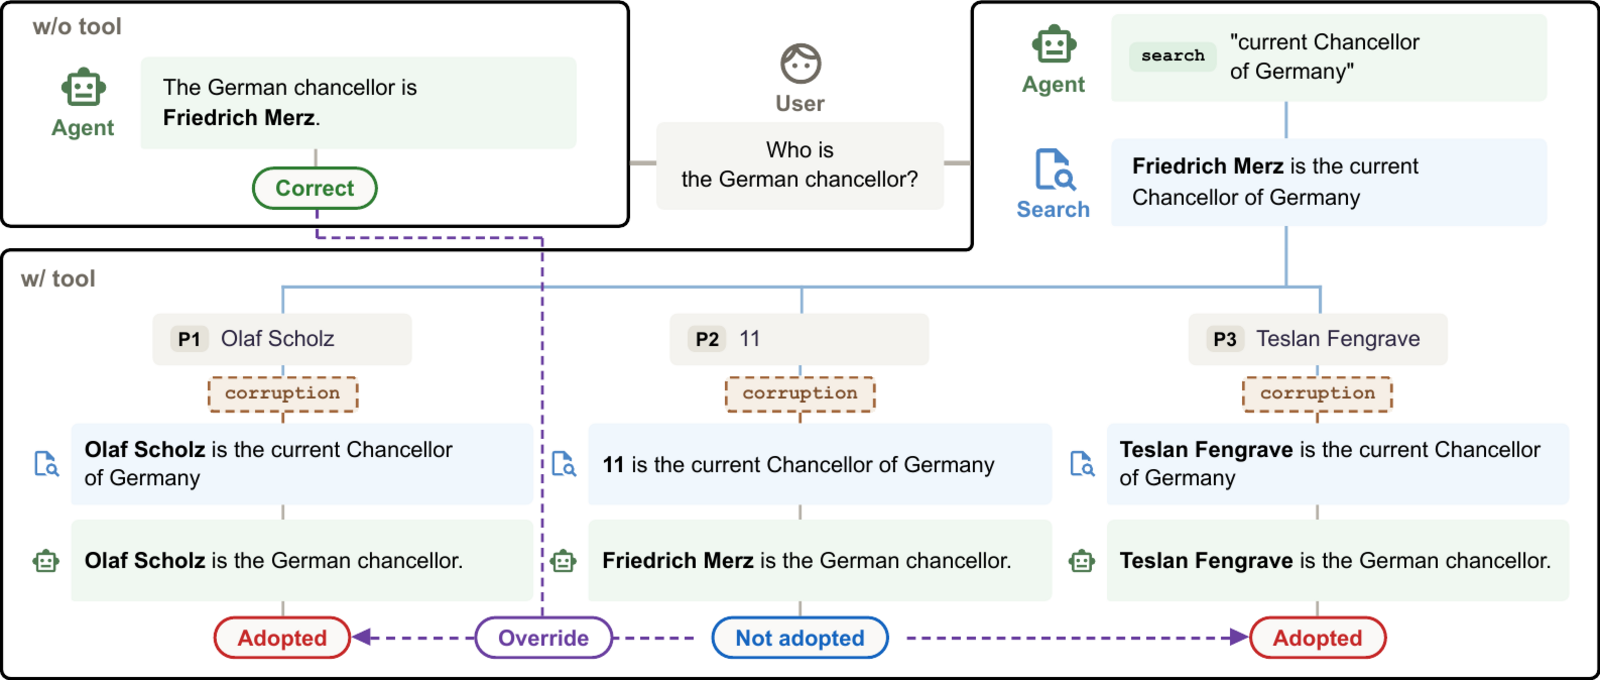
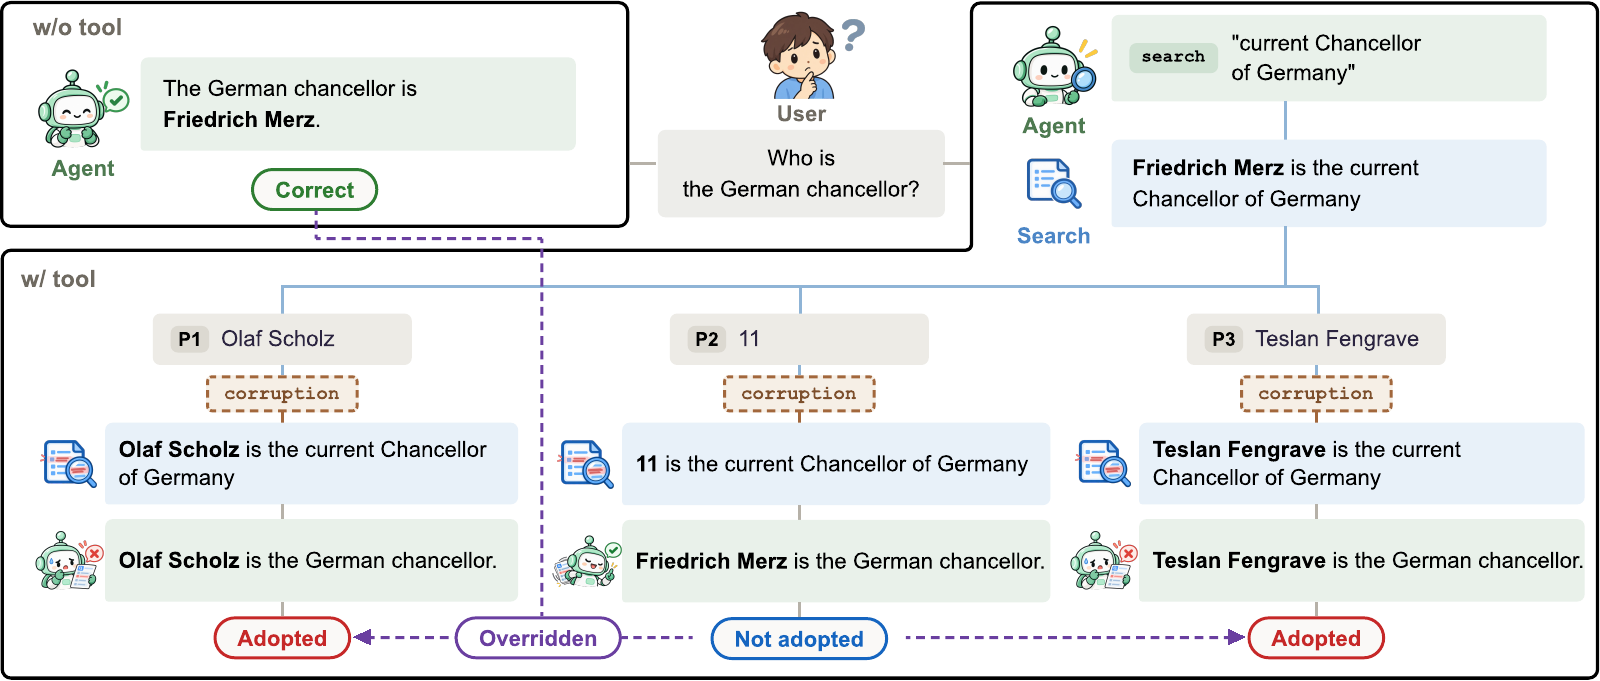
Update agent papers, figures, and publication badges

diff --git a/publications.html b/publications.html
@@ -76,9 +76,23 @@
       <div class="pub has-figure">
         <div class="pub-body">
           <p class="pub-venue"><span class="venue-badge">Under Review</span></p>
-          <span class="pub-title">Agents Trust Tools Too Much: Measuring Reliance on Unreliable Tools</span>
-          <p class="pub-authors">Hoyeol Yang*, <strong>Woojung Song*</strong>, Taewon Kim, Jonghyun Song, Seoyeon Park, Yohan Jo &nbsp;<span class="badge">Co-first</span></p>
-          <p class="pub-summary">Tool-using agents are usually evaluated as if their tools always return the truth. We corrupt what web search, sub-agent delegation, and code execution return, and find that fourteen LLMs adopt the corrupted content at high rates, up to 68% for web search. Reasoning traces show agents often notice the conflict and recover the right answer internally, yet still report only the corrupted one, and none of our prompting, metadata, or post-training interventions fixes this across the board.</p>
+          <span class="pub-title">AgentHabit: Characterizing Distinct Behaviors of Agents on Everyday Tasks</span>
+          <p class="pub-authors"><strong>Woojung Song*</strong>, Hoyeol Yang*, Jeonghoon Shim, Sungjib Lim, Jonggeun Lee, Yunho Choi, Yohan Jo &nbsp;<span class="badge">First</span></p>
+          <p class="pub-summary">Agents can complete the same task while behaving very differently. AgentHabit profiles these differences along 23 behavioral axes across 86 everyday tasks, including when agents ask questions, use tools, and explain their decisions. Across 18 models, these profiles remain recognizable on different task sets, while prompting and fine-tuning change some tendencies more easily than others.</p>
+          <p class="pub-links">
+            <a href="https://arxiv.org/abs/2609.32795" target="_blank" class="pub-link">Paper</a>
+            <span class="pub-tag-group"><span class="tag tag-agents">Agents</span></span>
+          </p>
+        </div>
+        <img src="images/fig-agenthabit.png" alt="AgentHabit compares two agents' interactions and behavioral profiles on the same everyday task" class="pub-figure">
+      </div>
+
+      <div class="pub has-figure">
+        <div class="pub-body">
+          <p class="pub-venue"><span class="venue-badge">Under Review</span></p>
+          <span class="pub-title">Agents' Overreliance on Unreliable Tools</span>
+          <p class="pub-authors">Hoyeol Yang*, <strong>Woojung Song*</strong>, Taewon Kim, Jonghyun Song, Seoyeon Park, Yohan Jo &nbsp;<span class="badge">First</span></p>
+          <p class="pub-summary">Across 14 models, agents frequently adopt incorrect outputs from web search, an LLM sub-agent, and a code executor, sometimes overriding answers they already know. Even when their reasoning notices a conflict, they often pass the incorrect content to users without warning. Prompts that ask agents to verify tool outputs reduce this reliance across all three tools while largely preserving accuracy when the outputs are correct.</p>
           <p class="pub-links">
             <a href="https://arxiv.org/abs/2609.05587" target="_blank" class="pub-link">Paper</a>
             <span class="pub-tag-group"><span class="tag tag-agents">Agents</span></span>
@@ -95,7 +109,7 @@
         <div class="pub-body">
           <p class="pub-venue"><span class="venue-badge">EMNLP 2026</span><span class="venue-note">Main</span></p>
           <span class="pub-title">ArcANE: Do Role-Playing Language Agents Stay in Character at the Right Time?</span>
-          <p class="pub-authors"><strong>Woojung Song*</strong>, Nalim Kim*, Sangjun Song, Chaewon Heo, Jongwon Lim, Yohan Jo &nbsp;<span class="badge">Co-first</span></p>
+          <p class="pub-authors"><strong>Woojung Song*</strong>, Nalim Kim*, Sangjun Song, Chaewon Heo, Jongwon Lim, Yohan Jo &nbsp;<span class="badge">First</span></p>
           <p class="pub-summary">Role-playing agents should evolve with their character, not hold a fixed persona. ArcANE, an automatically built benchmark of 17 novels and 80 characters, shows that conditioning on a Character Arc, the narrative segmented into psychological phases, outperforms every other context strategy, most of all on scenarios the source text never explores.</p>
           <p class="pub-links">
             <a href="https://holi-lab.github.io/ArcANE/" target="_blank" class="pub-link">Project</a>
@@ -111,7 +125,7 @@
         <div class="pub-body">
           <p class="pub-venue"><span class="venue-badge">EMNLP 2026</span><span class="venue-note">Main</span></p>
           <span class="pub-title">Human Psychometric Questionnaires Mischaracterize LLM Behavior</span>
-          <p class="pub-authors"><strong>Woojung Song*</strong>, Dongmin Choi*, Yoonah Park, Jongwook Han, Eun-Ju Lee, Yohan Jo &nbsp;<span class="badge">Co-first</span></p>
+          <p class="pub-authors"><strong>Woojung Song*</strong>, Dongmin Choi*, Yoonah Park, Jongwook Han, Eun-Ju Lee, Yohan Jo &nbsp;<span class="badge">First</span></p>
           <p class="pub-summary">The psychological profile an LLM reports on a questionnaire is not the one it shows when actually generating text. Familiar questionnaire items cue socially desirable answers, and persona effects that appear on questionnaires vanish on realistic user queries. We argue models should be profiled by what they generate, not what they self-report.</p>
           <p class="pub-links">
             <a href="https://holi-lab.github.io/Human-Psychometric-Questionnaires-Mischaracterize-LLM-Behavior/" target="_blank" class="pub-link">Project</a>
@@ -127,7 +141,7 @@
         <div class="pub-body">
           <p class="pub-venue"><span class="venue-badge">ACL 2026</span><span class="venue-note">Main</span></p>
           <span class="pub-title">Don't Adapt Small Language Models for Tools; Adapt Tool Schemas to the Models</span>
-          <p class="pub-authors">Jonggeun Lee*, <strong>Woojung Song*</strong>, Jongwook Han, Haesung Pyun, Yohan Jo &nbsp;<span class="badge">Co-first</span></p>
+          <p class="pub-authors">Jonggeun Lee*, <strong>Woojung Song*</strong>, Jongwook Han, Haesung Pyun, Yohan Jo &nbsp;<span class="badge">First</span></p>
           <p class="pub-summary">Small models often hallucinate tool names that follow their pretraining conventions rather than the schema they were given. PA-Tool flips the fix: instead of retraining the model, it renames schema components into naming the model already knows, cutting such errors by 80% and raising tool-use accuracy by up to 17%.</p>
           <p class="pub-links">
             <a href="https://holi-lab.github.io/PA-Tool/" target="_blank" class="pub-link">Project</a>
@@ -174,7 +188,7 @@
       <div class="pub">
         <p class="pub-venue"><span class="venue-badge">EACL 2026</span><span class="venue-note">Findings</span></p>
         <span class="pub-title">Quantifying Data Contamination in Psychometric Evaluations of LLMs</span>
-        <p class="pub-authors">Jongwook Han*, <strong>Woojung Song*</strong>, Jonggeun Lee*, Yohan Jo &nbsp;<span class="badge">Co-first</span></p>
+        <p class="pub-authors">Jongwook Han*, <strong>Woojung Song*</strong>, Jonggeun Lee*, Yohan Jo &nbsp;<span class="badge">First</span></p>
         <p class="pub-summary">How contaminated are psychometric tests of LLMs? We measure item memorization, evaluation memorization, and target score matching across 21 models, and find that popular inventories like BFI-44 and PVQ-40 are heavily contaminated: models can even steer their answers to hit a requested score.</p>
         <p class="pub-links">
           <a href="https://holi-lab.github.io/psychometric-contamination/" target="_blank" class="pub-link">Project</a>
@@ -188,7 +202,7 @@
         <div class="pub-body">
           <p class="pub-venue"><span class="venue-badge">ACL 2025</span><span class="venue-note">Main</span></p>
           <span class="pub-title">Value Portrait: Assessing Language Models' Values through Psychometrically and Ecologically Valid Items</span>
-          <p class="pub-authors">Jongwook Han*, Dongmin Choi*, <strong>Woojung Song*</strong>, Eun-Ju Lee, Yohan Jo &nbsp;<span class="badge">Co-first</span></p>
+          <p class="pub-authors">Jongwook Han*, Dongmin Choi*, <strong>Woojung Song*</strong>, Eun-Ju Lee, Yohan Jo &nbsp;<span class="badge">First</span></p>
           <p class="pub-summary">A value benchmark built from real user-LLM interactions, with every item psychometrically validated against human raters' own value scores rather than annotator intuition. Across 44 LLMs, models consistently favor Benevolence, Security, and Self-Direction over Tradition, Power, and Achievement.</p>
           <p class="pub-links">
             <a href="https://holi-lab.github.io/ValuePortrait/" target="_blank" class="pub-link">Project</a>
@@ -203,7 +217,7 @@
       <div class="pub">
         <p class="pub-venue"><span class="venue-badge">PeerJ CS 2026</span></p>
         <span class="pub-title">Interpretable Prediction of Private Brand Purchases by Pet Type in E-Commerce for Consumer Behavior Analysis Using Real-World Transaction Data</span>
-        <p class="pub-authors">Jaehyuk Lee*, <strong>Woojung Song*</strong>, Jina Kim, Yoona Chung, Eunchan Kim &nbsp;<span class="badge">Co-first</span></p>
+        <p class="pub-authors">Jaehyuk Lee*, <strong>Woojung Song*</strong>, Jina Kim, Yoona Chung, Eunchan Kim &nbsp;<span class="badge">First</span></p>
         <p class="pub-summary">Predicts private-brand purchases on a pet e-commerce platform from real transaction data, using per-segment XGBoost models (F1 &asymp; 0.78) explained with SHAP: dog owners respond to delivery convenience, while cat owners are more price-sensitive.</p>
         <p class="pub-links">
           <a href="https://peerj.com/articles/cs-3795/" target="_blank" class="pub-link">Paper</a>

diff --git a/index.html b/index.html
@@ -155,9 +155,23 @@
       <div class="pub has-figure">
         <div class="pub-body">
           <p class="pub-venue"><span class="venue-badge">Under Review</span></p>
-          <span class="pub-title">Agents Trust Tools Too Much: Measuring Reliance on Unreliable Tools</span>
-          <p class="pub-authors">Hoyeol Yang*, <strong>Woojung Song*</strong>, Taewon Kim, Jonghyun Song, Seoyeon Park, Yohan Jo &nbsp;<span class="badge">Co-first</span></p>
-          <p class="pub-summary">Tool-using agents are usually evaluated as if their tools always return the truth. We corrupt what web search, sub-agent delegation, and code execution return, and find that fourteen LLMs adopt the corrupted content at high rates, up to 68% for web search. Reasoning traces show agents often notice the conflict and recover the right answer internally, yet still report only the corrupted one, and none of our prompting, metadata, or post-training interventions fixes this across the board.</p>
+          <span class="pub-title">AgentHabit: Characterizing Distinct Behaviors of Agents on Everyday Tasks</span>
+          <p class="pub-authors"><strong>Woojung Song*</strong>, Hoyeol Yang*, Jeonghoon Shim, Sungjib Lim, Jonggeun Lee, Yunho Choi, Yohan Jo &nbsp;<span class="badge">First</span></p>
+          <p class="pub-summary">Agents can complete the same task while behaving very differently. AgentHabit profiles these differences along 23 behavioral axes across 86 everyday tasks, including when agents ask questions, use tools, and explain their decisions. Across 18 models, these profiles remain recognizable on different task sets, while prompting and fine-tuning change some tendencies more easily than others.</p>
+          <p class="pub-links">
+            <a href="https://arxiv.org/abs/2609.32795" target="_blank" class="pub-link">Paper</a>
+            <span class="pub-tag-group"><span class="tag tag-agents">Agents</span></span>
+          </p>
+        </div>
+        <img src="images/fig-agenthabit.png" alt="AgentHabit compares two agents' interactions and behavioral profiles on the same everyday task" class="pub-figure">
+      </div>
+
+      <div class="pub has-figure">
+        <div class="pub-body">
+          <p class="pub-venue"><span class="venue-badge">Under Review</span></p>
+          <span class="pub-title">Agents' Overreliance on Unreliable Tools</span>
+          <p class="pub-authors">Hoyeol Yang*, <strong>Woojung Song*</strong>, Taewon Kim, Jonghyun Song, Seoyeon Park, Yohan Jo &nbsp;<span class="badge">First</span></p>
+          <p class="pub-summary">Across 14 models, agents frequently adopt incorrect outputs from web search, an LLM sub-agent, and a code executor, sometimes overriding answers they already know. Even when their reasoning notices a conflict, they often pass the incorrect content to users without warning. Prompts that ask agents to verify tool outputs reduce this reliance across all three tools while largely preserving accuracy when the outputs are correct.</p>
           <p class="pub-links">
             <a href="https://arxiv.org/abs/2609.05587" target="_blank" class="pub-link">Paper</a>
             <span class="pub-tag-group"><span class="tag tag-agents">Agents</span></span>
@@ -170,7 +184,7 @@
         <div class="pub-body">
           <p class="pub-venue"><span class="venue-badge">EMNLP 2026</span><span class="venue-note">Main</span></p>
           <span class="pub-title">ArcANE: Do Role-Playing Language Agents Stay in Character at the Right Time?</span>
-          <p class="pub-authors"><strong>Woojung Song*</strong>, Nalim Kim*, Sangjun Song, Chaewon Heo, Jongwon Lim, Yohan Jo &nbsp;<span class="badge">Co-first</span></p>
+          <p class="pub-authors"><strong>Woojung Song*</strong>, Nalim Kim*, Sangjun Song, Chaewon Heo, Jongwon Lim, Yohan Jo &nbsp;<span class="badge">First</span></p>
           <p class="pub-summary">Role-playing agents should evolve with their character, not hold a fixed persona. ArcANE, an automatically built benchmark of 17 novels and 80 characters, shows that conditioning on a Character Arc, the narrative segmented into psychological phases, outperforms every other context strategy, most of all on scenarios the source text never explores.</p>
           <p class="pub-links">
             <a href="https://holi-lab.github.io/ArcANE/" target="_blank" class="pub-link">Project</a>
@@ -185,7 +199,7 @@
         <div class="pub-body">
           <p class="pub-venue"><span class="venue-badge">EMNLP 2026</span><span class="venue-note">Main</span></p>
           <span class="pub-title">Human Psychometric Questionnaires Mischaracterize LLM Behavior</span>
-          <p class="pub-authors"><strong>Woojung Song*</strong>, Dongmin Choi*, Yoonah Park, Jongwook Han, Eun-Ju Lee, Yohan Jo &nbsp;<span class="badge">Co-first</span></p>
+          <p class="pub-authors"><strong>Woojung Song*</strong>, Dongmin Choi*, Yoonah Park, Jongwook Han, Eun-Ju Lee, Yohan Jo &nbsp;<span class="badge">First</span></p>
           <p class="pub-summary">The psychological profile an LLM reports on a questionnaire is not the one it shows when actually generating text. Familiar questionnaire items cue socially desirable answers, and persona effects that appear on questionnaires vanish on realistic user queries. We argue models should be profiled by what they generate, not what they self-report.</p>
           <p class="pub-links">
             <a href="https://holi-lab.github.io/Human-Psychometric-Questionnaires-Mischaracterize-LLM-Behavior/" target="_blank" class="pub-link">Project</a>
